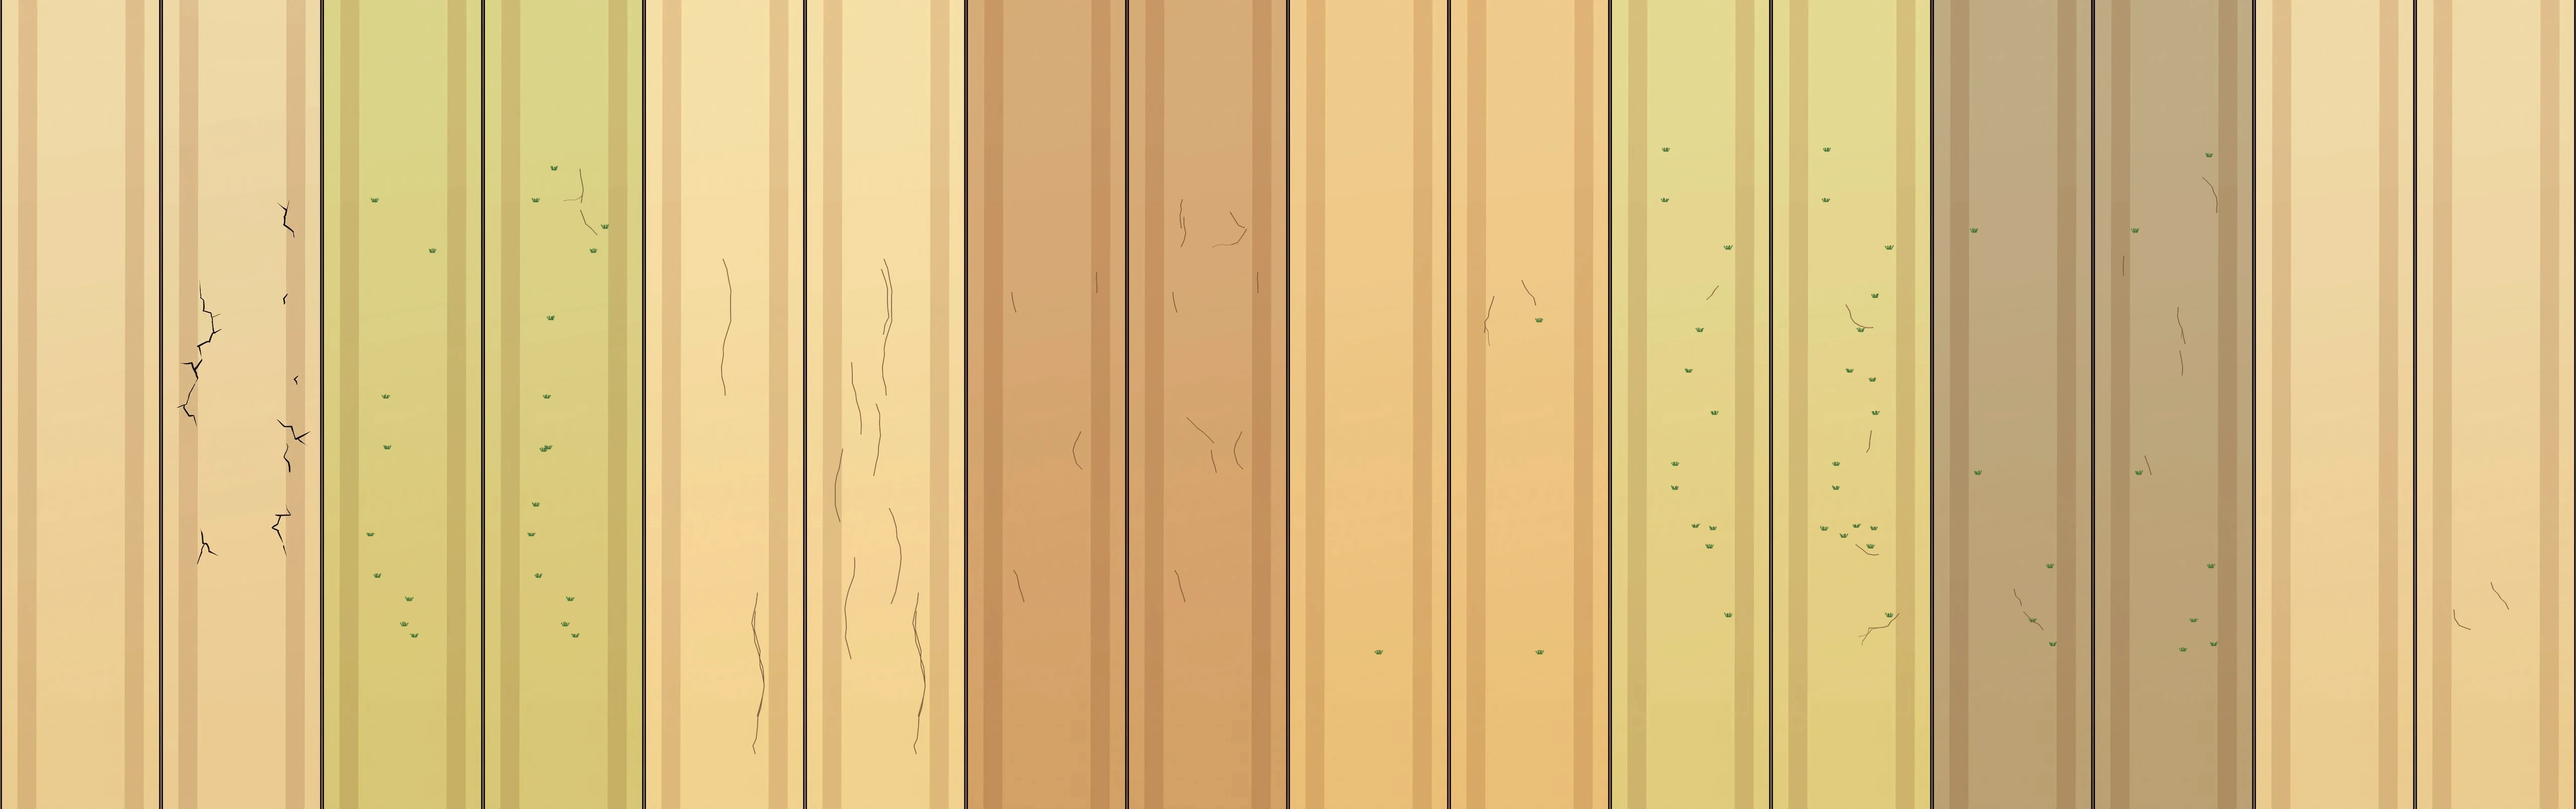
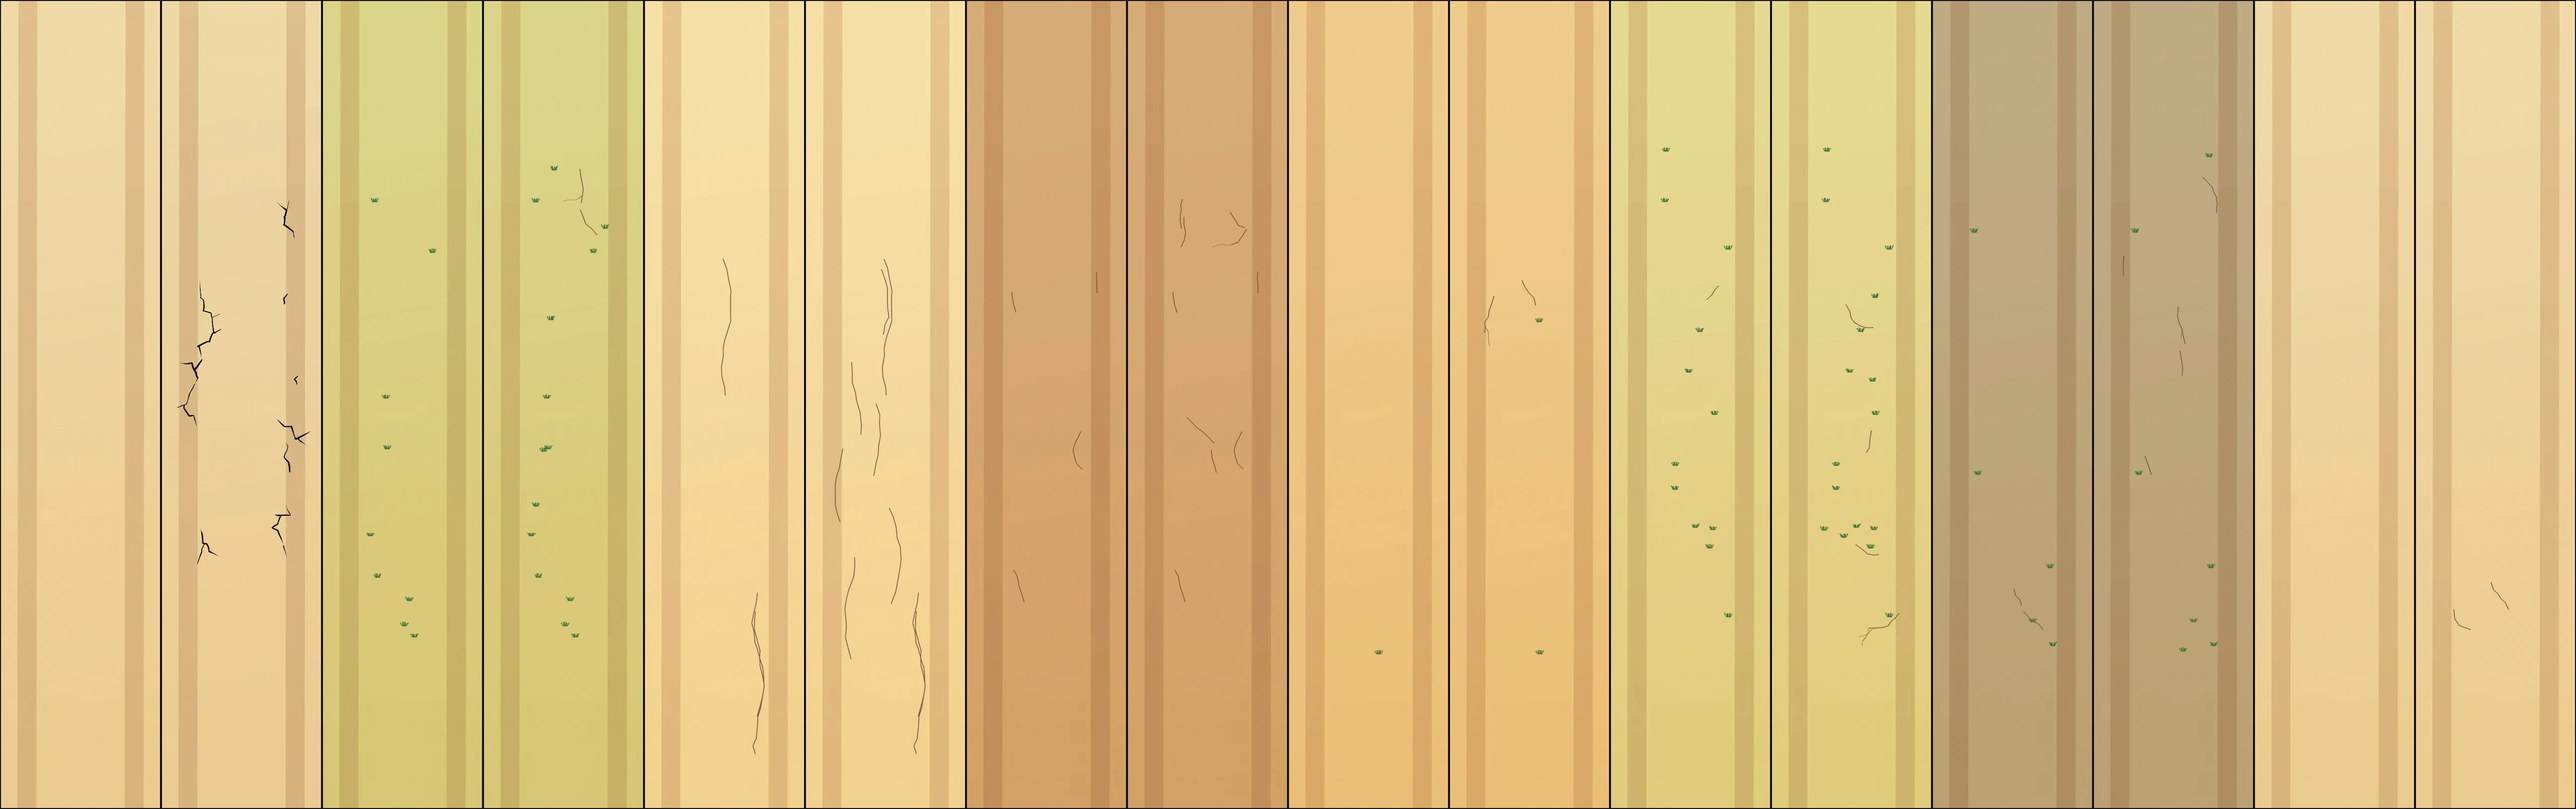
Pitch: thinner ink edge with ink at both ends; creases drawn as one shape (clean joins) and run out to the pitch's sides (preview)
Claude-Session: https://claude.ai/code/session_01NK7tbrKg5PdA6fuyEUPXLd

Changed region(s): [[0.0, 0.995, 1.0, 1.0]]

diff --git a/js/scene.js b/js/scene.js
@@ -76,20 +76,18 @@ const SHARED = new Set(['pitch', 'grass', 'stumps', 'stumps-broken']);
 // creases, kept on the pitch: white, with a fine ink edge only where they're big enough to
 // carry one (far away an edge turns a crease into a stack of stripes)
 function drawCreases(g, cam, PX) {
-  const crease = (x0, z0, x1, z1) => {
-    const p = cam.project(0, 0, (z0 + z1) / 2);
-    if (!p) return;
-    const w = 0.045 * p.k;
-    g.lineCap = 'square';   // (square ends reach each other's centre-line: no gaps at the corners)
-    if (w >= 3) line(g, cam, x0, z0, x1, z1, 'rgba(20,16,24,0.7)', w + 1.2);
-    line(g, cam, x0, z0, x1, z1, w >= 3 ? '#fffdf0' : 'rgba(255,253,240,0.7)', Math.max(0.9, w));
-  };
-  const PE = 1.32;   // (the popping crease runs out to the return creases and stops there: the lines meet in a clean corner)
+  // the lines run out to the pitch's sides; return creases meet them. All the ink edges are drawn first and all the
+  // white lines over them, so the lines join cleanly and the edge shows only round the outside of the whole shape
+  const segs = [];
   for (const [z, d] of [[0, 1], [20, -1]]) {
-    crease(-PE, z + 1.22 * d, PE, z + 1.22 * d); // popping crease
-    crease(-1.32, z, 1.32, z); // bowling crease, through the stumps
-    for (const x of [-1.32, 1.32]) crease(x, z + 1.22 * d, x, z - 1.22 * d); // return creases
+    segs.push([-PX, z + 1.22 * d, PX, z + 1.22 * d]); // popping crease
+    segs.push([-PX, z, PX, z]); // bowling crease, through the stumps
+    for (const x of [-1.32, 1.32]) segs.push([x, z + 1.22 * d, x, z - 1.22 * d]); // return creases
   }
+  const ws = segs.map(([x0, z0, x1, z1]) => { const p = cam.project(0, 0, (z0 + z1) / 2); return p ? 0.045 * p.k : 0; });
+  g.lineCap = 'square';   // (square ends reach each other's centre-line: no gaps at the corners)
+  segs.forEach(([x0, z0, x1, z1], i) => { if (ws[i] >= 3) line(g, cam, x0, z0, x1, z1, 'rgba(20,16,24,0.9)', ws[i] + 1.2); });
+  segs.forEach(([x0, z0, x1, z1], i) => { if (ws[i]) line(g, cam, x0, z0, x1, z1, ws[i] >= 3 ? '#fffdf0' : 'rgba(255,253,240,0.7)', Math.max(0.9, ws[i])); });
 }
 // Grounds with a painted strip of their own, fresh and late (img/ground/<club>/pitch-fresh.webp, pitch-late.webp): the strip
 // fades from one to the other as the match wears (js/pitches.js pitchLate). The others keep the shared strip.
@@ -1146,7 +1144,7 @@ export class OutfieldView {
       const sm = art.pitchFresh ? shrunk(art, pt, (b.x - a.x) * sc, (b.y - a.y) * sc) : pt;   // (a strip drawn small is shrunk in steps: one big jump leaves it speckled and the bands and edges lost)
       ctx.imageSmoothingQuality = 'high';
       ctx.drawImage(sm, pw(sm) * tr, 0, pw(sm) * (1 - 2 * tr), ph(sm), a.x, a.y, b.x - a.x, b.y - a.y);
-      if (art.pitchFresh) { ctx.strokeStyle = 'rgb(20,16,24)'; ctx.lineWidth = Math.max(1.2, 0.09 * this.k); }   // (the strip's ink edge, as heavy as in the match views)
+      if (art.pitchFresh) { ctx.strokeStyle = 'rgb(20,16,24)'; ctx.lineWidth = Math.max(1, 0.055 * this.k); }   // (the strip's ink edge, as fine as in the match views)
       else { ctx.strokeStyle = 'rgba(20,16,24,0.35)'; ctx.lineWidth = 0.6; }
       ctx.strokeRect(a.x, a.y, b.x - a.x, b.y - a.y);
     } else {
@@ -1158,7 +1156,7 @@ export class OutfieldView {
     ctx.strokeStyle = 'rgba(255,255,255,0.85)'; ctx.lineWidth = Math.max(1, 0.06 * k);
     for (const [y, dir] of [[0, 1], [20, -1]]) {
       const pc = y + 1.22 * dir;
-      const l = this.to(-1.5, pc), r = this.to(1.5, pc), bl = this.to(-1.32, y), br = this.to(1.32, y);
+      const l = this.to(-1.5, pc), r = this.to(1.5, pc), bl = this.to(-1.5, y), br = this.to(1.5, y);
       ctx.beginPath(); ctx.moveTo(l.x, l.y); ctx.lineTo(r.x, r.y);
       for (const x of [-1.32, 1.32]) { const a2 = this.to(x, pc + 0.6 * dir), b2 = this.to(x, y - 0.6 * dir); ctx.moveTo(a2.x, a2.y); ctx.lineTo(b2.x, b2.y); }
       ctx.moveTo(bl.x, bl.y); ctx.lineTo(br.x, br.y); // the bowling crease, through the stumps
